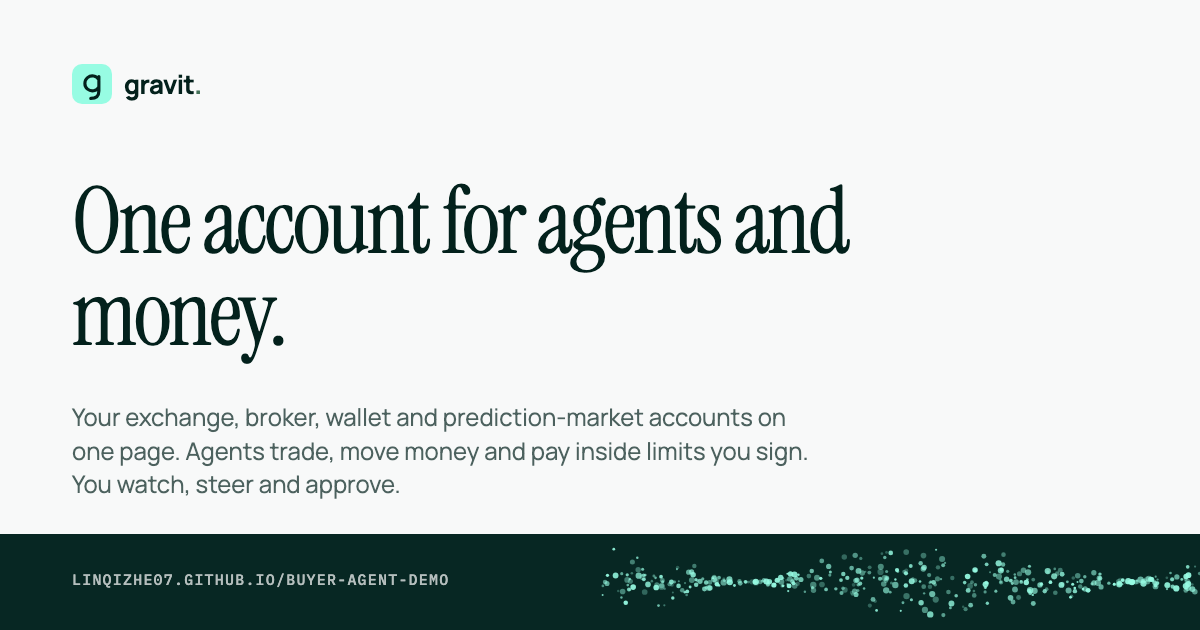
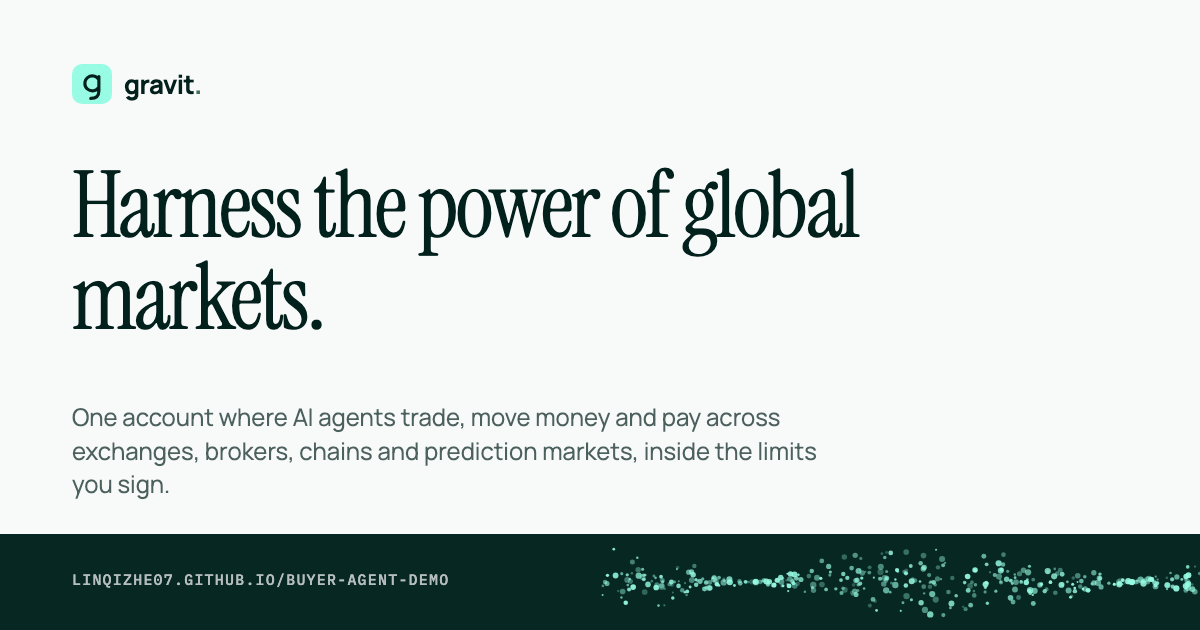
Site: the core line is harnessing global markets; vision and key technology only, no repository detail; a placeholder contact
- Hero and og image say "Harness the power of global markets." with one sentence under it; the vision band leads with it
- The page keeps what Hyperliquid's keeps: the figures, one line per module, one paragraph on MCP, three short lines on who can move money, a four-question FAQ. The response table, command blocks, mode table, invariants and the honesty list are gone; the README holds them, and the page links there
- Contact shows a placeholder address instead of a personal mailbox
- styles.css and main.js drop what the page no longer has

Changed region(s): [[0.0617, 0.2714, 0.7092, 0.573], [0.0617, 0.6333, 0.6783, 0.7841]]

diff --git a/site/index.html b/site/index.html
@@ -4,13 +4,13 @@
   <meta charset="utf-8">
   <meta name="viewport" content="width=device-width, initial-scale=1">
   <meta http-equiv="Content-Security-Policy" content="default-src 'self'; connect-src 'self' https://api.hyperliquid.xyz https://api.kraken.com https://api.coinbase.com https://api.exchange.coinbase.com https://www.okx.com https://gamma-api.polymarket.com https://api.github.com; font-src 'self'; img-src 'self' data:; style-src 'self'; script-src 'self'; base-uri 'none'; form-action 'none'; object-src 'none'">
-  <title>Gravit — One account for agents and money</title>
-  <meta name="description" content="Gravit is an AI workbench for investment research. The Account is where its agents keep money: your exchange, broker, wallet and prediction-market accounts on one page; agents trade, move money and pay inside limits you sign.">
+  <title>Gravit — Harness the power of global markets</title>
+  <meta name="description" content="One account where AI agents trade, move money and pay across exchanges, brokers, chains and prediction markets, inside the limits you sign.">
   <meta name="theme-color" content="#f8f9f9">
   <link rel="canonical" href="https://linqizhe07.github.io/buyer-agent-demo/">
   <meta property="og:type" content="website">
-  <meta property="og:title" content="Gravit — One account for agents and money">
-  <meta property="og:description" content="Your exchange, broker, wallet and prediction-market accounts on one page. Agents trade, move money and pay inside limits you sign. You watch, steer and approve.">
+  <meta property="og:title" content="Gravit — Harness the power of global markets">
+  <meta property="og:description" content="One account where AI agents trade, move money and pay across exchanges, brokers, chains and prediction markets, inside the limits you sign.">
   <meta property="og:url" content="https://linqizhe07.github.io/buyer-agent-demo/">
   <meta property="og:image" content="https://linqizhe07.github.io/buyer-agent-demo/img/og.png">
   <meta property="og:image:width" content="1200">
@@ -44,14 +44,13 @@
 
   <main id="main">
     <section class="hero wrap" id="top" aria-labelledby="h1">
-      <p class="eyebrow"><span class="dot"></span>Gravit · Investment research, with an account for agents</p>
-      <h1 id="h1">One account for agents and money.</h1>
-      <p class="lede">Gravit is an AI workbench for investment research. The Account is where its agents keep money: your exchange, broker, wallet and prediction-market accounts on one page. Agents trade, move money and pay inside limits you sign. You watch, steer and approve.</p>
+      <p class="eyebrow"><span class="dot"></span>Gravit · An account for agents</p>
+      <h1 id="h1">Harness the power of global markets.</h1>
+      <p class="lede">One account where AI agents trade, move money and pay across exchanges, brokers, chains and prediction markets, inside the limits you sign.</p>
       <div class="ctas">
         <a class="pill pill-accent pill-lg" href="https://github.com/linqizhe07/buyer-agent-demo#跑起来">Run it locally <span class="arr">↗</span></a>
         <a class="pill pill-lg" href="#agents">Plug an agent in <span class="arr">↓</span></a>
       </div>
-      <p class="fine">Runs at 127.0.0.1:4820 on your machine · Node 22 · nothing is hosted</p>
     </section>
 
     <section class="strip" aria-label="Your own accounts at">
@@ -59,7 +58,7 @@
       <div class="marquee" data-marquee>
         <ul class="marquee-track marks">
           <li>OKX</li><li>Kraken</li><li>Coinbase</li><li>Binance</li><li>Bybit</li><li>KuCoin</li><li>Alpaca</li><li>Robinhood</li><li>Kalshi</li><li>Polymarket US</li><li>Polymarket</li><li>MetaMask</li><li>OKX Wallet</li><li>Hyperliquid</li><li>Ondo<small>watch</small></li>
-          <li class="more">+ <span data-stat="exchanges.more">87</span> more exchanges by API key</li>
+          <li class="more">+ <span data-stat="exchanges.more">87</span> more exchanges</li>
         </ul>
       </div>
     </section>
@@ -67,33 +66,33 @@
     <div class="band band-hero" aria-hidden="true"><svg class="art" data-art="wave" viewBox="0 0 1440 480" preserveAspectRatio="xMidYMid slice"></svg></div>
 
     <section class="stats wrap" aria-label="In numbers">
-      <div class="stat"><b data-stat="exchanges.byApiKey">93</b><span>Exchanges by API key</span></div>
-      <div class="stat"><b data-stat="connectionKinds.count">13</b><span>Kinds of connection</span></div>
-      <div class="stat"><b data-stat="mcpTools.real">32</b><span>Agent tools over MCP</span></div>
-      <div class="stat"><b><span class="unit">$</span><span data-stat="capUsd">100</span></b><span>A move, default cap</span></div>
+      <div class="stat"><b data-stat="exchanges.byApiKey">93</b><span>Exchanges</span></div>
+      <div class="stat"><b data-stat="connectionKinds.count">13</b><span>Ways to connect</span></div>
+      <div class="stat"><b data-stat="mcpTools.real">32</b><span>Agent tools</span></div>
+      <div class="stat"><b><span class="unit">$</span><span data-stat="capUsd">100</span></b><span>Cap per move</span></div>
     </section>
 
     <section class="section wrap" id="account" aria-labelledby="h-account">
       <div class="section-head">
-        <p class="eyebrow">Every kind of market, from the accounts you already have</p>
-        <h2 id="h-account">Crypto, stocks, RWAs, perps, pre-IPO and predictions. One ticket, six faces.</h2>
+        <p class="eyebrow">Every market, one account</p>
+        <h2 id="h-account">Crypto, stocks, RWAs, perps, pre-IPO and predictions. One ticket.</h2>
         <a class="pill pill-accent" href="#venues">See the venues <span class="arr">↓</span></a>
       </div>
 
       <div class="ticker" data-ticker hidden>
-        <p class="strip-label"><span>Read without a key · connect to trade, on your machine</span><span class="asof" data-asof></span></p>
+        <p class="strip-label"><span>Read without a key · Connect to trade</span><span class="asof" data-asof></span></p>
         <div class="marquee" data-marquee><ul class="marquee-track" data-ticker-track></ul></div>
       </div>
 
       <figure class="panel">
         <svg class="art" data-art="wave" viewBox="0 0 1440 480" preserveAspectRatio="xMidYMid slice" aria-hidden="true"></svg>
-        <img src="./img/shot-portfolio-black.webp" srcset="./img/shot-portfolio-black.webp 1x, ./img/shot-portfolio-black@2x.webp 2x" width="1440" height="900" alt="The Account's Portfolio screen in its Black background: net worth, holdings by asset, a card waiting for the owner, agents at work" data-zoom loading="eager" decoding="async">
-        <figcaption>Captured from the stand-in account: the same page and doors, stand-in venues, no network, no real money.</figcaption>
+        <img src="./img/shot-portfolio-black.webp" srcset="./img/shot-portfolio-black.webp 1x, ./img/shot-portfolio-black@2x.webp 2x" width="1440" height="900" alt="The Account's Portfolio screen: net worth, holdings, a card waiting for the owner, agents at work" data-zoom loading="eager" decoding="async">
+        <figcaption>Captured from the stand-in account: stand-in venues, no real money.</figcaption>
       </figure>
       <div class="shots">
-        <figure class="shot"><img src="./img/shot-markets-cream.webp" srcset="./img/shot-markets-cream.webp 1x, ./img/shot-markets-cream@2x.webp 2x" width="1440" height="900" alt="Markets: one table of every market the connected and public venues list, by kind" data-zoom loading="lazy" decoding="async"><figcaption>Markets — what there is to trade, connected or read without a key.</figcaption></figure>
-        <figure class="shot"><img src="./img/shot-trade-cream.webp" srcset="./img/shot-trade-cream.webp 1x, ./img/shot-trade-cream@2x.webp 2x" width="1440" height="900" alt="Trade: one ticket with a face per market kind" data-zoom loading="lazy" decoding="async"><figcaption>Trade — one ticket, a face per kind of market.</figcaption></figure>
-        <figure class="shot"><img src="./img/shot-memory-cream.webp" srcset="./img/shot-memory-cream.webp 1x, ./img/shot-memory-cream@2x.webp 2x" width="1440" height="900" alt="Memory: what an agent remembers about the owner, each note with where it came from" data-zoom loading="lazy" decoding="async"><figcaption>Memory — what an agent remembers about you, every word yours to change.</figcaption></figure>
+        <figure class="shot"><img src="./img/shot-markets-cream.webp" srcset="./img/shot-markets-cream.webp 1x, ./img/shot-markets-cream@2x.webp 2x" width="1440" height="900" alt="Markets: every market the connected and public venues list, by kind" data-zoom loading="lazy" decoding="async"><figcaption>Markets</figcaption></figure>
+        <figure class="shot"><img src="./img/shot-trade-cream.webp" srcset="./img/shot-trade-cream.webp 1x, ./img/shot-trade-cream@2x.webp 2x" width="1440" height="900" alt="Trade: one ticket, a face per kind of market" data-zoom loading="lazy" decoding="async"><figcaption>Trade</figcaption></figure>
+        <figure class="shot"><img src="./img/shot-memory-cream.webp" srcset="./img/shot-memory-cream.webp 1x, ./img/shot-memory-cream@2x.webp 2x" width="1440" height="900" alt="Memory: what an agent remembers about the owner" data-zoom loading="lazy" decoding="async"><figcaption>Memory</figcaption></figure>
       </div>
     </section>
 
@@ -102,11 +101,11 @@
         <p class="eyebrow" id="h-rest">The rest of Gravit</p>
       </div>
       <ul class="rows">
-        <li><a class="row" href="https://github.com/linqizhe07/buyer-agent-demo"><span class="ava mint">A</span><span><span class="name">The Account</span><br><span class="what">This page. Your venues, one signature, agents inside limits.</span></span><span class="path">demo/ <span class="arr">↗</span></span></a></li>
-        <li><a class="row" href="https://evolving-alpha.vercel.app/"><span class="ava">g</span><span><span class="name">Gravit workbench</span><br><span class="what">Chat, /market and /account on one machine; the agent runtime in-process.</span></span><span class="path">face/ <span class="arr">↗</span></span></a></li>
-        <li><a class="row" href="https://github.com/KairosPan/Evolving-Alpha-US/tree/main/alpaca_kit"><span class="ava">α</span><span><span class="name">alpaca_kit</span><br><span class="what">MARKET and ACCOUNT as one Python package: Alpaca bars, EDGAR point-in-time, an MCP server, read-only by default.</span></span><span class="path">alpaca_kit/ <span class="arr">↗</span></span></a></li>
+        <li><a class="row" href="https://github.com/linqizhe07/buyer-agent-demo"><span class="ava mint">A</span><span><span class="name">The Account</span><br><span class="what">Your venues, one signature, agents inside limits.</span></span><span class="path">demo/ <span class="arr">↗</span></span></a></li>
+        <li><a class="row" href="https://evolving-alpha.vercel.app/"><span class="ava">g</span><span><span class="name">Gravit workbench</span><br><span class="what">Research, markets and the account on one machine.</span></span><span class="path">face/ <span class="arr">↗</span></span></a></li>
+        <li><a class="row" href="https://github.com/KairosPan/Evolving-Alpha-US/tree/main/alpaca_kit"><span class="ava">α</span><span><span class="name">alpaca_kit</span><br><span class="what">Market data and the paper account, as a Python package.</span></span><span class="path">alpaca_kit/ <span class="arr">↗</span></span></a></li>
         <li><a class="row" href="https://github.com/linqizhe07/agentpay"><span class="ava">$</span><span><span class="name">agentpay</span><br><span class="what">A budgeted x402 wallet for AI agents.</span></span><span class="path">payment <span class="arr">↗</span></span></a></li>
-        <li><a class="row" href="https://github.com/KairosPan/Evolving-Alpha-US"><span class="ava">…</span><span><span class="name">All modules</span><br><span class="what">strategies, bots, dsh and the rest, on GitHub.</span></span><span class="path">Evolving-Alpha-US <span class="arr">↗</span></span></a></li>
+        <li><a class="row" href="https://github.com/KairosPan/Evolving-Alpha-US"><span class="ava">…</span><span><span class="name">All modules</span><br><span class="what">Everything else, on GitHub.</span></span><span class="path">Evolving-Alpha-US <span class="arr">↗</span></span></a></li>
       </ul>
     </section>
 
@@ -114,18 +113,8 @@
       <div class="copy">
         <p class="eyebrow">MCP</p>
         <h2 id="h-agents">Plug an agent in.</h2>
-        <p class="lede">An agent gets a seat: its own key, made on your machine, and the limits you sign — trade, move, pay, earn, each with a per-order line, a total and an expiry. <span data-stat="mcpTools.real">32</span> tools: read, trade, move, pay, earn, ask, wait, remember. Reads are never gated. Anything over a limit is refused before a card is raised.</p>
-        <div class="cmd"><code>npm run portfolio:mcp</code><button type="button" data-copy="npm run portfolio:mcp">Copy</button></div>
-        <div class="cmd"><code>claude mcp add portfolio -e PORTFOLIO_URL=http://127.0.0.1:4820 -- npx tsx src/portfolio/mcp.ts</code><button type="button" data-copy="claude mcp add portfolio -e PORTFOLIO_URL=http://127.0.0.1:4820 -- npx tsx src/portfolio/mcp.ts">Copy</button></div>
-        <table class="answers" aria-label="The four answers to a signed instruction">
-          <tbody>
-            <tr><td>200</td><td>Done. An order comes back (maybe still open); a movement comes back as a payment (maybe still on its way).</td></tr>
-            <tr><td>202</td><td>A card for the owner first.</td></tr>
-            <tr><td>401</td><td>This key is not a signer: never let in, expired, or revoked.</td></tr>
-            <tr><td>409</td><td>Refused, with a code that says which line it crossed.</td></tr>
-          </tbody>
-        </table>
-        <a class="pill" href="https://github.com/linqizhe07/buyer-agent-demo#给-agent-的接口">See the tools <span class="arr">↗</span></a>
+        <p class="lede">An agent gets a seat: its own key, made on your machine, and the limits you sign. <span data-stat="mcpTools.real">32</span> tools over MCP to read, trade, move, pay, earn, ask and remember. Over a limit, it is refused.</p>
+        <a class="pill pill-accent" href="https://github.com/linqizhe07/buyer-agent-demo#给-agent-的接口">Start building <span class="arr">↗</span></a>
       </div>
       <svg class="dotgrid" data-art="grid" viewBox="0 0 400 400" aria-hidden="true"></svg>
     </section>
@@ -133,10 +122,10 @@
     <section class="band band-vision" aria-label="What this is for">
       <div class="wrap">
         <svg class="glyph" data-art="glyph" viewBox="0 0 64 64" aria-hidden="true"></svg>
-        <p class="vision fade">Every seller already exists. The buyer agent does not. This is its account.</p>
-        <p class="vision fade">An account is an airport: runways for money, customs at every venue, a tower that approves, a gate per agent key, a log of every flight.</p>
+        <p class="vision fade">Markets never close, and every one of them already has a seller. The buyer agent did not exist. This is its account.</p>
+        <p class="vision fade">Harness the power of global markets: one pool of money, every venue, every hour.</p>
+        <p class="vision fade">An account is an airport: runways for money, a tower that approves, a gate per agent key, a log of every flight.</p>
         <p class="vision fade">Refusals are the product. Anything over a limit is refused before a card is raised.</p>
-        <p class="vision fade">One pool of money across exchanges, brokers, chains and prediction markets — moved only between places shown to be yours.</p>
       </div>
     </section>
 
@@ -146,33 +135,13 @@
         <h2 id="h-money">Who can move money.</h2>
       </div>
       <div class="three">
-        <div class="col"><h3>Owner</h3><p>A device key the browser cannot export. Every real-money action is one signature, with “What you sign” laid out first; the price or address is asked again before it runs, and if it changed, it does not.</p></div>
-        <div class="col"><h3>Agent</h3><p>Its own key, made on your machine, plus the limits you signed: trade, move, pay, earn — each with a per-order line, a total and an expiry.</p></div>
-        <div class="col"><h3>Venue</h3><p>Its own location rules, asked from your own network every 30 minutes and shown in its own words. Nothing here works around them.</p></div>
+        <div class="col"><h3>Owner</h3><p>A device key the browser cannot export. Every real-money action is one signature.</p></div>
+        <div class="col"><h3>Agent</h3><p>Its own key, plus the limits you signed: per order, in total, until a date.</p></div>
+        <div class="col"><h3>Venue</h3><p>Its own rules, asked from your own network, in its own words. Never worked around.</p></div>
       </div>
-      <p class="lead">Guard: what agents ask for waits for you on a card. Beast: inside the limits you signed, it goes at once. Guard is one click; Beast is signed.</p>
-      <table class="modes" aria-label="Guard and Beast">
-        <thead><tr><th>An agent, inside its limit</th><th>Guard</th><th>Beast</th></tr></thead>
-        <tbody>
-          <tr><td>Place an order, move money, put money into earn</td><td class="card">A card; waits for you</td><td class="now">At once</td></tr>
-          <tr><td>Cancel its own order</td><td class="now">At once</td><td class="now">At once</td></tr>
-          <tr><td>Over its limit</td><td class="no">Refused</td><td class="no">Refused</td></tr>
-        </tbody>
-      </table>
-      <div class="lines">
-        <p>In both modes: --live-cap bounds every order and move · money goes only to your own places · revoke any time · a card nobody answers in <span data-stat="cardMinutes">30</span> minutes expires · a venue's own rules are never worked around.</p>
-        <p><span data-stat="tests.files">131</span> test files · <span data-stat="tests.attackFiles">30</span> attack reproductions that must keep failing.</p>
-      </div>
-      <div class="honest">
-        <h3>What this does not prove</h3>
-        <ul>
-          <li>Real connections and real-money writes have only been tested against stand-ins: no real key and no real wallet has been used here. Connect with a read-only key first; to write, start with a small cap and small amounts.</li>
-          <li>What has really been read is keyless public data: exchange prices, Kalshi, Polymarket and Polymarket US gateways, pre-IPO prices, LI.FI quotes.</li>
-          <li>The local file system is the trust boundary: whoever can write the home can change the ledger and the key files; agent seats under the same system user are not walled off from each other.</li>
-          <li>Custody, licences and who pays when something goes wrong are not software, and are not here.</li>
-        </ul>
-        <a class="pill" href="https://github.com/linqizhe07/buyer-agent-demo#诚实边界">All seven <span class="arr">↗</span></a>
-      </div>
+      <p class="lead">Guard: every request waits for you on a card. Beast: inside the limits you signed, it runs at once.</p>
+      <p class="fine">Tested against stand-ins only, so far. What this does and does not prove is in the README.</p>
+      <p><a class="pill" href="https://github.com/linqizhe07/buyer-agent-demo#诚实边界">Read the limits <span class="arr">↗</span></a></p>
     </section>
 
     <section class="section wrap" id="progress" aria-labelledby="h-progress">
@@ -187,11 +156,10 @@
     <section class="section wrap" aria-labelledby="h-faq">
       <div class="section-head"><p class="eyebrow" id="h-faq">FAQ</p></div>
       <div class="faq">
-        <details><summary>What is Gravit, and what is the Account?</summary><p>Gravit is an AI workbench for investment research: markets, strategies and several research perspectives, with the evidence kept in context. The Account is its funding account for agents — your real exchange, broker, wallet and prediction-market accounts on one page, where agents trade, move money and pay inside limits you sign, and you watch, steer and approve.</p></details>
-        <details><summary>Is any of this real money?</summary><p>When you run it, yes: real orders and movements at the accounts you connect are on by default, each at most $100 (--live-cap), and --read-only turns them off. The code itself has only been exercised against stand-ins: no real key and no real wallet has been used in its development, and what it has really read is keyless public data.</p></details>
-        <details><summary>Does it work from where I am?</summary><p>Each venue is asked from your own network, at start and every 30 minutes, and answers in its own words: reachable, not served here, close-only (Polymarket for the US: connect, sell and cancel, but no new positions — Polymarket US is a separate venue with its own key), or a residency rule its terms state (shown, never enforced). Binance.US, OKX US and Polymarket US are listed beside their parents where they serve you. Nothing works around a venue's rule.</p></details>
-        <details><summary>Can an agent empty my account?</summary><p>Only what you signed: each limit has a per-order line, a total and an expiry, and anything over it is refused. In Guard every request waits on a card that expires unanswered after 30 minutes; in Beast it runs inside the limit at once. Money goes only to places shown to be yours, and you can revoke any agent at any time.</p></details>
-        <details><summary>Why is there no hosted version?</summary><p>One operator, one machine, one principal agent; nothing runs unattended. The service listens on 127.0.0.1 only, your keys stay in files on your machine, and the owner is a device key in your own browser. Run it locally, or install it as a background service on your Mac.</p></details>
+        <details><summary>What is Gravit?</summary><p>An AI workbench for investment research, with an account its agents can act from.</p></details>
+        <details><summary>What is the Account?</summary><p>Your real exchange, broker, wallet and prediction-market accounts on one page. Agents trade, move money and pay inside limits you sign; you watch, steer and approve.</p></details>
+        <details><summary>Is this real money?</summary><p>When you run it, yes: real orders at the accounts you connect, each under a cap you set, with a read-only switch. The code has only ever been exercised against stand-ins.</p></details>
+        <details><summary>Where does it run?</summary><p>On your own machine, for one operator. Keys stay in your files, the owner is a key in your browser, and nothing is hosted.</p></details>
       </div>
     </section>
   </main>
@@ -205,7 +173,6 @@
           <div><h4>Learn</h4><ul>
             <li><a href="https://github.com/linqizhe07/buyer-agent-demo#readme">Account README</a></li>
             <li><a href="https://github.com/linqizhe07/buyer-agent-demo/blob/main/COOKBOOK.md">Cookbook</a></li>
-            <li><a href="https://github.com/linqizhe07/buyer-agent-demo/blob/main/docs/account.md">Account details</a></li>
             <li><a href="https://github.com/KairosPan/Evolving-Alpha-US/blob/main/Kairos-Design.md">Kairos charter</a></li>
           </ul></div>
           <div><h4>Code</h4><ul>
@@ -214,14 +181,14 @@
             <li><a href="https://github.com/linqizhe07/agentpay">agentpay</a></li>
           </ul></div>
           <div><h4>Contact</h4><ul>
-            <li><a href="mailto:kairoszhe@gmail.com">kairoszhe@gmail.com</a></li>
+            <li>hello@gravit.example</li>
             <li><a href="https://github.com/linqizhe07">github.com/linqizhe07</a></li>
             <li><a href="https://github.com/KairosPan">github.com/KairosPan</a></li>
           </ul></div>
         </div>
         <div class="bottom">
           <p>© 2026 Gravit · Think independently. Keep questioning.</p>
-          <p>Quotes are fetched by your browser directly from Hyperliquid, Kraken, Coinbase, OKX, Polymarket and GitHub's public APIs; those venues see your IP as any visitor's. This page runs no analytics and sets no cookies. <span data-numbers-note></span></p>
+          <p>Quotes come straight from the venues' public APIs to your browser. No analytics, no cookies.</p>
           <p>Not affiliated with Hyperliquid or any venue named here.</p>
         </div>
       </div>

diff --git a/site/styles.css b/site/styles.css
@@ -54,7 +54,7 @@ button { font: inherit; color: inherit; background: none; border: 0; padding: 0;
 /* ---- words ---- */
 .eyebrow { display: flex; align-items: center; gap: 10px; font: 500 12px/1 var(--sans); letter-spacing: 0.08em; text-transform: uppercase; color: var(--ink-70); }
 .eyebrow .dot { width: 7px; height: 7px; border-radius: 50%; background: var(--green); box-shadow: 0 0 0 4px rgba(68, 114, 89, 0.18); }
-h1 { font: 400 clamp(46px, 6.4vw, 72px)/1.02 var(--serif); letter-spacing: -0.03em; max-width: 12ch; text-wrap: balance; }
+h1 { font: 400 clamp(46px, 6.4vw, 72px)/1.02 var(--serif); letter-spacing: -0.03em; max-width: 15ch; text-wrap: balance; }
 h2 { font: 400 clamp(32px, 4vw, 44px)/1.08 var(--serif); letter-spacing: -0.025em; max-width: 24ch; text-wrap: balance; }
 .lede { font-size: clamp(17px, 1.6vw, 19px); line-height: 1.45; color: var(--ink); max-width: 56ch; letter-spacing: -0.01em; }
 .fine { font: 400 13px/1.5 var(--sans); color: var(--ink-45); }
@@ -167,13 +167,6 @@ h2 { font: 400 clamp(32px, 4vw, 44px)/1.08 var(--serif); letter-spacing: -0.025e
 /* builder (plug an agent in) */
 .builder { display: grid; grid-template-columns: 1fr 1fr; gap: clamp(28px, 5vw, 72px); align-items: start; }
 .builder .copy { display: grid; gap: 18px; }
-.cmd { display: grid; grid-template-columns: 1fr auto; align-items: center; gap: 12px; background: var(--white); border: 1px solid var(--line); border-radius: var(--r); padding: 12px 12px 12px 16px; }
-.cmd code { font: 400 13px/1.5 var(--mono); overflow-wrap: anywhere; }
-.cmd button { padding: 8px 10px; border-radius: 8px; background: var(--pill); font: 500 11px/1 var(--sans); letter-spacing: 0.06em; text-transform: uppercase; }
-.cmd button:hover { background: var(--mint); }
-.answers { width: 100%; border-collapse: collapse; margin-top: 8px; font-size: 14px; }
-.answers td { padding: 10px 8px; border-top: 1px solid var(--line); vertical-align: top; }
-.answers td:first-child { font-family: var(--mono); font-weight: 500; width: 64px; }
 .dotgrid { aspect-ratio: 1 / 1; width: 100%; }
 @media (max-width: 860px) { .builder { grid-template-columns: 1fr; } .dotgrid { max-width: 360px; } }
 
@@ -182,19 +175,9 @@ h2 { font: 400 clamp(32px, 4vw, 44px)/1.08 var(--serif); letter-spacing: -0.025e
 .col { background: var(--white); border: 1px solid var(--line); border-radius: var(--r); padding: 22px; display: grid; gap: 10px; align-content: start; }
 .col h3 { font: 600 13px/1 var(--sans); letter-spacing: 0.08em; text-transform: uppercase; color: var(--ink-70); }
 .col p { font-size: 15px; line-height: 1.5; }
-.modes { width: 100%; border-collapse: collapse; background: var(--white); border: 1px solid var(--line); border-radius: var(--r); overflow: hidden; }
-.modes th, .modes td { text-align: left; padding: 14px 16px; border-top: 1px solid var(--line); font-size: 15px; vertical-align: top; }
-.modes th { font: 500 11px/1.3 var(--sans); letter-spacing: 0.08em; text-transform: uppercase; color: var(--ink-45); border-top: 0; }
-.modes td.card { color: var(--ink); }
-.modes td.now { color: var(--up); }
-.modes td.no { color: var(--down); }
-.lead { font-size: 17px; line-height: 1.45; max-width: 64ch; }
-.lines { margin-top: 22px; display: grid; gap: 10px; }
-.lines p { font-size: 14px; color: var(--ink-70); }
-.honest { margin-top: 30px; display: grid; gap: 10px; }
-.honest h3 { font: 600 13px/1 var(--sans); letter-spacing: 0.08em; text-transform: uppercase; color: var(--ink-70); margin-bottom: 4px; }
-.honest li { padding: 12px 0; border-top: 1px solid var(--line); font-size: 15px; color: var(--ink); max-width: 72ch; }
-@media (max-width: 860px) { .three { grid-template-columns: 1fr; } .modes { font-size: 14px; } }
+.lead { font-size: 17px; line-height: 1.45; max-width: 64ch; margin-bottom: 14px; }
+.section .fine + p { margin-top: 18px; }
+@media (max-width: 860px) { .three { grid-template-columns: 1fr; } }
 
 /* progress */
 .prs { border-top: 1px solid var(--line); }

diff --git a/site/main.js b/site/main.js
@@ -263,19 +263,7 @@ function renderPrs(list, note) {
   } catch { /* GitHub did not answer: the baked list stays */ }
 })();
 
-/* ---------- the day the numbers were computed ---------- */
-(async () => {
-  try {
-    const n = await get("./data/numbers.json");
-    $("[data-numbers-note]").textContent = `Numbers computed from the repository on ${n.generatedAt}.`;
-  } catch { /* the numbers are in the page either way */ }
-})();
-
-/* ---------- copy buttons, fade-in, lightbox ---------- */
-for (const b of $$("[data-copy]")) b.addEventListener("click", async () => {
-  try { await navigator.clipboard.writeText(b.dataset.copy); b.textContent = "Copied"; } catch { b.textContent = "Select it"; }
-  setTimeout(() => (b.textContent = "Copy"), 1600);
-});
+/* ---------- fade-in, lightbox ---------- */
 if (!reduced && "IntersectionObserver" in window) {
   const io = new IntersectionObserver((es) => es.forEach((e) => { if (e.isIntersecting) { e.target.classList.add("in"); io.unobserve(e.target); } }), { threshold: 0.3 });
   $$(".fade").forEach((el) => io.observe(el));
